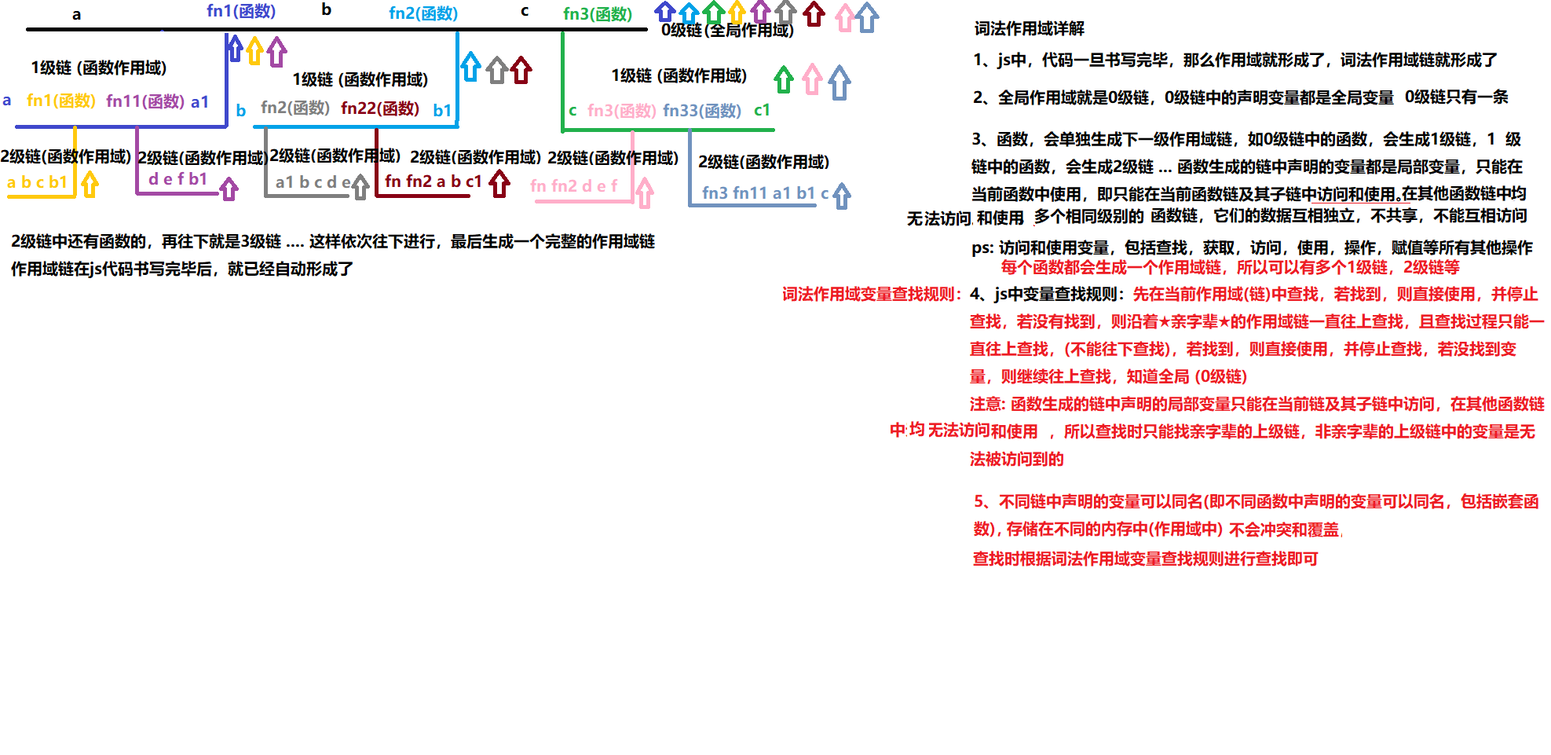
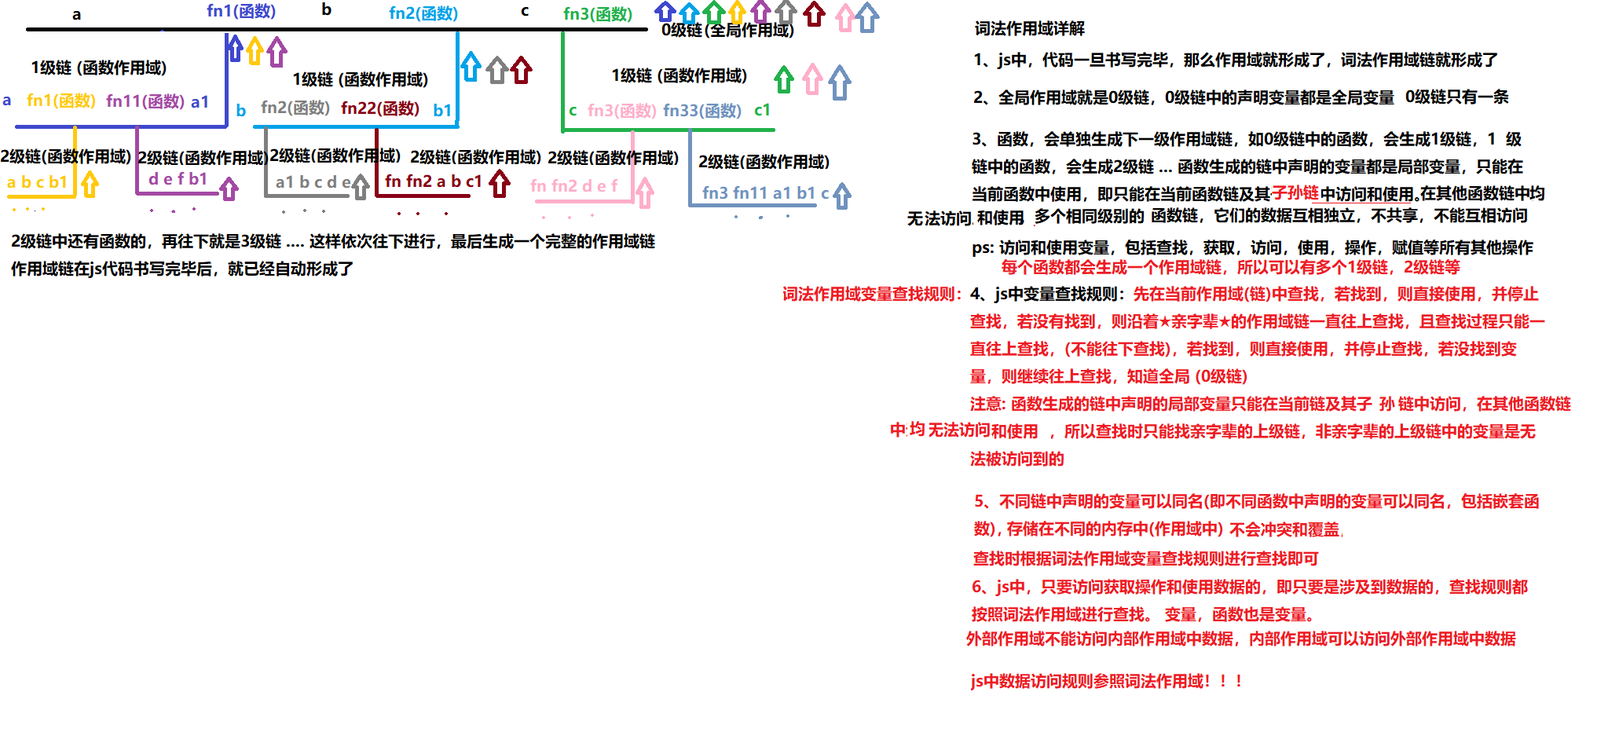
0418-01

diff --git a/01-JavaScript基础/day01/02-代码/day01-code/05-变量.html b/01-JavaScript基础/day01/02-代码/day01-code/05-变量.html
@@ -21,11 +21,12 @@
       //1. 只声明
       // 结构 : var + 变量名   (变量名不能是字符串)  在ES5中 声明变量的方式只有var
       // (记忆) 只声明,,没有赋值的变量 => 变量的值都是 undefined  只声明是符合语法规范的,说明还没有进行完,后续会赋值的。
+      // 赋值, 赋予变量值, 变量中存储的值就为赋的值, 改变变量中存储的值
       // ★★★ 若后续在相同作用域内(在相同作用域内,若是函数作用域,则是每个函数开辟的单独内存空间内(包含嵌套函数关系),即每个函数的作用域互不干扰,相互独立,不会冲突)声明相同变量名的变量，则相同作用域内后声明的变量会覆盖相同作用域中之前声明的同名变量 (在相同作用域内, 只要声明的变量名相同, 后面声明的变量就会覆盖前面的) , 不会报错
       //        即var声明的变量可以被var声明多次, 在相同作用域下, 后声明的变量会覆盖相同作用域中之前声明的同名变量 (前提后声明的变量要赋值, 否则不会覆盖, 值还是之前的), 不同作用域的变量互不影响和干扰.
       // 注意: ★ 使用/访问变量,使用/访问的都是变量的值(变量中存储的值)
-      // ps: 操作, 访问, 获取, 输出 和使用变量, 都是操作, 访问和获取, 输出和使用变量的值; 我们可以通过操作变量来操作变量的值
-      // ps: ★★★ js中所有的使用变量的地方, 都是使用变量的值, 而不是使用变量本身, ★★★
+      // ps: 操作, 访问, 获取, 输出 和使用变量, 都是操作, 访问和获取, 输出和使用变量的值, 即变量中存储的值; 我们可以通过操作变量来操作变量的值
+      // ps: ★★★ js中所有的使用变量的地方, 都是使用变量的值, 即变量中存储的值, 而不是使用变量本身, ★★★
       //     如 var a = 1; var b = 2; var c = 3; var arr = [a, b]  => [1, 2]; arr.push(c); arr 为★★★ [1, 2, 3], 而不是[a, b, c], 因为使用变量是使用变量的值, 而不是变量本身
       //        a = { name: 'zs', age: 18 }; b = 6; c = 100 则arr还是[1, 2, 3], 因为是使用变量的值, 而非变量本身
       //     注意, 引用类型的数据, 值是引用地址
@@ -40,13 +41,16 @@
        console.log(p); //undefined
 
       //2. 先声明,再赋值
-      // = : 赋值 (给等号左边的变量赋值) => 将等号右边的值赋值给等号左边(★★★一个变量只能存储一个值, 可以存储所有类型的数据, 可以多次赋值，后面的赋值会覆盖前面存储的值)
+      // = : 赋值 (给等号左边的变量赋值) => 将等号右边的值(结果)赋值给等号左边(★★★一个变量只能存储一个值, 可以存储所有类型的数据, 可以多次赋值，后面的赋值会覆盖前面存储的值, 即后面的赋值会覆盖变量之前存储的值)
+      // 变量中存储的值是可以改变的, 给变量赋值会改变变量中存储的值, 变量可以被多次赋值 (接受任意类型赋值) , 后面的赋值会覆盖前面存储的值, 即后面的赋值会覆盖变量之前存储的值 (每个变量只能存储一个值)
+      // 变量可以存储任意类型的值, 即变量可以接收任意类型数据的赋值, 变量的数据类型以当前变量中存储的值的数据类型为准
       // 不同变量之间的值可以一样, 也可以不一样
-      // ★ 变量赋值顺序, ★ 一定是 (无论如何) 都是从右往左, 先执行等号右边, 将右边的具体结果算出来后, 再赋值给左边 var p = 1;   p = p + 1 => 先执行右边的p + 1, 然后把结果赋值给左边的p => 执行结果, p 的值为 2
+      // ★ 变量赋值顺序, ★ 一定是 (无论如何) 都是从右往左, 先执行等号右边, 将右边的具体结果值算出来后, 再将右边的值赋值给等号左边 var p = 1;   p = p + 1 => 先执行右边的p + 1, 然后把结果赋值给左边的p => 执行结果, p 的值为 2
       // 赋值时 等号右边可以是变量 把变量存储的值赋予左边 ; 可以是具体的值 字面量 引用地址等其他
       // ★ 注意,赋值时,先执行等号右边,右边可以是复杂的表达式、函数的调用以及任何获取性操作, dom获取性操作等等, 一定是等到等号右边算出来具体值之后,再将等号右边的具体的值赋给等号左边
-      // 可以将任意类型(五简单，3复杂)的变量/值/数据 赋值给var声明的变量 , var声明的变量,不管之前有没有赋值,都可以接收任意类型变量/值 的赋值 (5个简单类型,3个复杂类型),赋值后变量的数据类型也随之改变
-      // var 声明的变量,可以接收任意数据类型(五简单，3复杂)的赋值(后面的赋值会覆盖前面的赋值). 可以存储任意数据类型的数据 赋值后变量的数据类型也随之改变
+      // ★ 注意, 赋值时, 先执行等号右边, 等号右边的数据以此刻执行等号右边时内存中存储的数据为准.  var p = 1;   p = p + 1 => 先执行右边的p + 1, 此刻内存中p为1, 所以p + 1的值为2, 然后把结果赋值给左边的p => 执行结果, p 的值为 2
+      // 可以将任意类型(五简单，3复杂)的变量/值/数据 赋值给var声明的变量 , var声明的变量,不管之前有没有赋值,都可以接收任意类型变量/值 的赋值 (5个简单类型,3个复杂类型),赋值后变量的数据类型也随之改变, 每个变量只能存储一个值, 后面的赋值会覆盖变量之前存储的值
+      // var 声明的变量,可以接收任意数据类型(五简单，3复杂)的赋值(后面的赋值会覆盖前面的赋值). 可以存储任意数据类型的数据 赋值后变量的数据类型也随之改变, 每个变量只能存储一个值, 后面的赋值会覆盖变量之前存储的值
       // js中, 只要是变量：1.就只能存储一个值, 2.可以存储所有类型的数据, 3. 可以多次赋值, 可以接受所有类型的数据赋值, 后面的赋值会覆盖变量之前的值
       // 变量的值可以是任意类型的, 5简单, 3复杂
       // 变量都可以赋值

diff --git a/01-JavaScript基础/day04/02-代码/day04-code/22-作用域.html b/01-JavaScript基础/day04/02-代码/day04-code/22-作用域.html
@@ -13,18 +13,20 @@
 
 // **全局作用域** ：在script标签内或js文件内，**函数外**的区域就是全局作用域，在全局作用内声明的变量叫做**全局变量** 。全局变量可以在任意地方访问。
 
-// **函数作用域** ：在  **函数内的区域**   叫做函数作用域，在函数作用域内声明的变量叫做**局部变量** ，局部变量只能在 当前 函数体内 及当前函数体内 嵌套的子函数内 才能访问到。在其他函数中都无法访问和使用。
+// **函数作用域** ：在  **函数内的区域**   叫做函数作用域，在函数作用域内声明的变量叫做**局部变量** ，局部变量只能在 当前 函数体内 及当前函数体内 嵌套的子孙函数内 才能访问到。在其他函数中都无法访问和使用。
 
 // ★★★★★ 每个函数都有自己独立的函数作用域, 不同函数之间的作用域互相独立, 都是不同的作用域, 数据独立, 互不影响, 互不干扰, 数据不共享, 不能互相访问数据. 也不会互相覆盖数据
 
 
 // 全局变量：在函数外，script标签内(全局作用域)声明的变量就是全局变量，全局变量在任何地方都能访问和使用。
 
-// 局部变量：在函数中(函数作用域)声明的变量，就是局部变量，局部变量只能在 当前函数体内及当前函数嵌套的子函数能够访问和使用, 在其他函数中都无法访问和使用。
+// 局部变量：在函数中(函数作用域)声明的变量，就是局部变量，局部变量只能在 当前函数体内及当前函数嵌套的子孙函数能够访问和使用, 在其他函数中都无法访问和使用。
 
 // 隐式全局变量：没有使用var定义的变量也是全局变量，叫做隐式全局变量。(不要使用)
 
 // 全局变量存储在全局内存中, 局部变量存储在所在函数的内存中, 形参也是局部变量, 也存储在所在函数的内存中
+
+// 外部作用域不能访问内部作用域中数据, 内部作用域可以访问外部作用域数据 (根据词法作用域)
 
 
 // 总结:
@@ -50,7 +52,7 @@
       //★   不同函数之间的形参可以同名,因为是在各自的函数作用域开辟内存空间存储, 是不同的东西, 各自独立, 不会冲突, 互不影响, 不会互相覆盖, 存储在不同的内存里 无法互相访问
       //★   不同函数之间的局部变量可以同名,因为是在各自的函数作用域开辟内存空间存储, 是不同的东西, 各自独立, 不会冲突, 互不影响, 不会互相覆盖, 存储在不同的内存里 无法互相访问
       //★   不同函数之间的局部变量 是不同的东西, 各自独立 不会冲突, 互不影响, 不会互相覆盖, 存储在不同的内存里 访问时根据词法作用域规则访问
-      //     1>只要是不同函数, 不管是同级的或者是其他函数或者是嵌套的函数(父函数和子函数), 形参名就可以相同, 因为是存储在不同的内存里, 是不同的东西, 不同函数之间的形参是独立的, 互不干扰, 互不影响 不会互相覆盖 存储在不同的内存里 访问和使用形参时根据词法作用域规则访问
+      //     1>只要是不同函数, 不管是同级的或者是其他函数或者是嵌套的函数(父函数和子孙函数), 形参名就可以相同, 因为是存储在不同的内存里, 是不同的东西, 不同函数之间的形参是独立的, 互不干扰, 互不影响 不会互相覆盖 存储在不同的内存里 访问和使用形参时根据词法作用域规则访问
       //     如arr.forEach(function(v, i) {
       //        arr1.forEach(function(v, i) {
       //            不同函数之间的形参名可以相同, 不同函数之间的形参是独立的, 存储在不同的内存里, 互不干扰
@@ -60,7 +62,7 @@
       //            })
       //        } )
       //   } )
-      //    2>只要是不同函数, 包括嵌套函数 (子函数和父函数), 或其他同级函数或其他函数, 不同函数之间的函数作用域内的局部变量名可以相同, 因为是存储在不同的内存里的, 不同函数之间的局部变量是独立的, 互不干扰互不影响, 不会互相覆盖 访问和使用变量时根据词法作用域规则访问
+      //    2>只要是不同函数, 包括嵌套函数 (子孙函数和父函数), 或其他同级函数或其他函数, 不同函数之间的函数作用域内的局部变量名可以相同, 因为是存储在不同的内存里的, 不同函数之间的局部变量是独立的, 互不干扰互不影响, 不会互相覆盖 访问和使用变量时根据词法作用域规则访问
       //     如arr.forEach(function(v, i) {
       //        var a = 1
       //        arr1.forEach(function(v, i) {
@@ -78,7 +80,7 @@
 
       //4.  函数内部也可以声明函数,不过函数内部声明的函数是局部的,只能在函数内部使用,函数外部无法使用。
       //5.  函数中可以嵌套函数,外层函数的局部变量可以在内层函数中使用,内层函数的局部变量不可以在外层函数中使用。即里面可以访问外面,外面不能访问里面。内外层函数中变量,形参也可以同名(在各自的函数作用域内存储,不会冲突),内层函数访问变量,先访问自己的,没有再一层层往外找 (自己内部=>外层函数?.. => 全局作用域)
-      //6.  每个函数都是开辟自己的空间存储,与其他函数相互独立,不会冲突。函数中的变量,形参,只能在 当前 函数 及当前函数嵌套的子函数中使用,在 其他函数中无法访问和使用。
+      //6.  每个函数都是开辟自己的空间存储,与其他函数相互独立,不会冲突。函数中的变量,形参,只能在 当前 函数 及当前函数嵌套的子孙函数中使用,在 其他函数中无法访问和使用。
       //7.  函数内只能访问 ★ 自己函数内部 的局部变量 和 全局变量,无法访问其他 同级 函数中的变量。
 
             // ps: 不同的函数, 是不同的函数作用域, 互相独立,

diff --git a/01-JavaScript基础/day05/02-代码/day05-code/06-匿名函数.html b/01-JavaScript基础/day05/02-代码/day05-code/06-匿名函数.html
@@ -76,19 +76,21 @@
     //    2. 所有函数, ★ 只要是函数 (不管函数在哪里声明的), 参数都是可有可无的, 且调用函数的时候都可以传参, 也可以不传参, 若传参, 参数都会被形参按照顺序一一对应接收
     // ★★★ 调用函数的时候, 先将实参的值赋值给形参, 然后才开始执行函数体. 即先确认每个形参的值之后, 才开始执行函数体中的代码
     //    3. 函数的声明, 也叫做创建函数, 可以通过以下三种方式创建函数: 1. function 函数名(参数..) { 函数体 }, 2. var 变量名 = function(参数..) { 函数体 }, 3.使用匿名函数创建函数 function(参数..) { 函数体 }
-    //       以上三种方式都是函数的声明, 都是创建函数, 返回函数的引用地址
+    //       以上三种方式都是函数的声明, 都是创建函数, 返回函数的引用地址, 且都可以被调用
     //       以上三种方式都是函数的声明, 不会执行函数体, 需要调用, 才会执行函数体中的代码
-    //       函数体中可以写任意的js代码, 会在调用的函数的时候执行函数体中的代码, 执行顺序也是从上往下依次执行
-    //       ★ ps: 后续所说的函数, 都是指函数的声明(创建), 即函数的引用地址
-    //       1) 创建函数(声明函数), 都会开辟一块新的空间存储, 都是返回函数的引用地址. 2) 只要是创建函数(声明函数), 都不会执行函数体, 需要调用函数, 才会执行函数体中的代码. 每次调用, 执行一次函数体 3) 只要是函数, 不管在哪, 都不会自己执行函数体, 都需要调用函数, 才会执行函数体
+    //       函数体中可以写任意的js代码, 会在调用的函数的时候执行函数体中的代码, ★ 执行顺序也是从上往下同步执行的
+    //       ★ ps: 后续所说的函数, 都是指函数的声明(创建), 即函数的引用地址, 
+    //       ★ ps: 后续所使用到函数的API, 都是指函数的声明(创建), 即函数的引用地址, 我们只需要在使用处声明(创建)函数即可, 创建函数返回的是函数的引用地址
+    //       1) 创建函数(声明函数), 都会开辟一块新的空间存储, 都是返回函数的引用地址. 即声明(创建)函数得到的结果是函数的引用地址, 且声明(创建)的函数都可以被调用 2) 只要是创建函数(声明函数), 都不会执行函数体, 需要调用函数, 才会执行函数体中的代码. 每次调用, 执行一次函数体 3) 只要是函数, 不管在哪, 都不会自己执行函数体, 都需要调用函数, 才会执行函数体
     //       4) ★★★ 只要是创建函数(声明函数), 浏览器都不会去解析和执行函数体中的代码, 而是直接跳过, 等到调用函数的时候, 才会去解析和执行函数体中的代码, 函数体中变量具体的值, 以调用执行函数体的时候对应代码执行的时刻内存中存储的变量的值为准.
     //       5) 调用函数, 执行函数体, 函数体中访问/查找/使用/操作/赋值变量, 先在自身函数作用域内查找, 若找到就使用, 并停止查找, 若没找到, 则从函数的 ★★★声明所在处 开始, 沿着作用域链往上级链查找, 找到使用, 且停止查找, 后面同词法作用域2.3.4点！！
-    //    4. 在JS任何地方 变量的值只要指向函数的(根据词法作用域查找规则), 或者说变量的值只要是函数的引用地址的, 就可以通过变量名() 调用函数, 执行函数体 与函数在哪里声明的, 数据在哪里存储的无关, 与函数在哪个内存地址里存储无关.
+    //       6) 调用函数, 执行函数体中代码, 函数体中代码执行顺序都是从上往下同步执行的
+    //    4. 在JS任何地方 变量的值只要指向函数的(根据词法作用域查找规则), 或者说变量的值只要是函数的引用地址的, 就可以通过变量名() 调用对应的函数, 执行函数体 与函数在哪里声明的, 数据在哪里存储的无关, 与函数在哪个内存地址里存储无关.
     // ps: 调用函数, 不管函数在哪里声明, 不管函数在哪调用的, 函数调用结束后(执行完函数体后),  都会将return 后面的值, 即函数的返回值, 返回到函数的调用处, 返回什么值, 函数的调用处就拿到什么值
 
     //    5. 在JS任何地方, 只要是函数, 或函数的引用地址的, 都可以加()调用对应地址里的函数, 执行其函数体中的代码 与函数在哪里声明的, 数据在哪里存储的无关, 与函数在哪个内存地址里存储无关.
     //    函数的调用过程
-    //       ★★★ 在JS任何地方 只要是函数的引用地址, 都可以加()调用函数, ★ 与函数在哪里声明的, 数据在哪里存储的无关, 与函数在哪个内存地址里存储无关.
+    //       ★★★ 在JS任何地方 只要是函数的引用地址, 都可以加()调用对应的函数, ★ 与函数在哪里声明的, 数据在哪里存储的无关, 与函数在哪个内存地址里存储无关.
     //       ★★★ 调用函数, (不管函数在引入的哪个文件中, 哪个模块中, 哪个内存中声明的) 都会先回到函数声明所在处  执行函数体中的代码, 函数体中变量查找顺序也是从函数声明处函数体中开始, 根据词法作用域链规则依次往上查找.
     //       ★★★ 调用函数, 要等到执行函数体代码结束后, 才会重新回到函数的调用处, 并且将函数返回值返回到函数调用处, 继续往下执行函数调用处之后的js代码 (同步调用)
     // ps: 调用函数, 不管函数在哪里声明, 不管函数在哪调用的, 函数调用结束后(执行完函数体后), 都会将return 后面的值, 即函数的返回值, 返回到函数的调用处, 返回什么值, 函数的调用处就拿到什么值

diff --git a/01-JavaScript基础/day01/02-代码/day01-code/01.js.html b/01-JavaScript基础/day01/02-代码/day01-code/01.js.html
@@ -2,7 +2,7 @@
  * @Author: Ling Hui Shi
  * @Date: 2020-02-16 19:54:46
  * @LastEditors: Ling Hui Shi
- * @LastEditTime: 2020-04-17 00:45:55
+ * @LastEditTime: 2020-04-18 01:13:04
  * @Description: 
  -->
 1. 为什么要学习js ?
@@ -13,7 +13,7 @@ js : 表单验证
 是一种运行在 客户端的 脚本语言
 脚本语言 : 非编译语言, 脚本语言是 执行一行 解析一行 php/python : 由于是非编译语言,就算代码写错了,由于是执行一行,解析一行,(且是同步执行, 要等到上面一行代码执行完毕后, 才执行下面一行的代码) 就算代码写错了,只要写错的代码不被执行到,也是不会报错的;
 // js是脚本语言, 非编译语言, 执行一行, 解析一行, 代码执行报错了, 程序停止运行, 报错之后的代码不再执行了, 但报错之前的代码还是会被执行的. 报错之前的代码已经执行完毕了 (解析一行, 执行一行)
-js中, 后面只要没有说是异步的, 则都是 ★ 同步执行的, 即会阻塞栈中代码执行, 即要等到上面的代码执行完毕后且★代码执行的影响保存更新到数据库后, 才会继续执行下面的代码
+js中, 后面只要没有说是异步的, 则全部都是 ★ 同步执行的, 即会阻塞栈中代码执行, 即要等到上面的代码执行完毕后且★代码执行的影响保存更新到数据库后, 才会继续执行下面的代码
 3. js的组成
 - ECMAScript :`标准` 规范、规定了js应该使用的 语法和数据类型 , 在浏览器中能够被识别和解析 (我们JS基础学习的是ECMAScript,并且是ES5 很重要)
 - Dom : document object model 有一套`操作网页元素`的api (方法 接口) (在WebAPIs编程中学习)
@@ -38,10 +38,11 @@ js中碰到复杂表达式的 (复杂表达式也是表达式), 多个.操作的
 2. js对dom树, css规则树以及渲染树的操作,比如改变dom树htm结构,或者改变dom树上dom元素(标签节点)的样式或html结构等所其他操作都会同步保存在内存中, 除非页面重新加载(刷新页面或跳转页面)
 3. js中声明的变量，函数,以及其他所有数据,都是一直存储在内存中的， 持续作用于页面, 对数据的操作,比如赋值等所有其他操作，都会一直保存在内存中, 持续作用于页面, 除页面重新加载(刷新页面或跳转页面)
 4、js中所有声明的数据(变量, 5基本, 3复杂等所有数据), 都是一次声明, 多次使用的, 可以被多次使用/操作/访问/获取/赋值等..
-5、js中,所有访问/使用/操作/ ★ 获取性等所有操作,获取的都是访问/使用/操作/获取当前执行获取性操作这段代码这一时刻，内存中此刻保存的对应的要获取的那个数据的值, ★ 并且要等到获取到值之后, 才继续执行后面的操作(比如赋值或其他所有操作), 代码..
-6、js中,所有的代码执行都是 立即 同步 生效的, 会先立刻把代码执行的影响立刻 同步 保存在内存里且生效后, 才会继续再往下执行下一行代码 ... , 后面执行的代码都是基于之前执行的代码
+5、js中, 不管是在全局或者函数中或者其他任意js运行环境中, js代码中, 所有的访问/使用/操作/ ★ 获取性等所有操作,获取的都是访问/使用/操作/获取当前执行获取性操作这段代码这一时刻，内存中此刻保存的对应的要获取的那个数据的值, ★ 并且要等到获取到值之后, 才继续执行后面的操作(比如赋值或其他所有操作), 代码..
+6、js中, 不管是在全局或者函数中或者其他任意js运行环境中, 所有的js代码的执行都是 立即 同步 生效的, 会先立刻把代码执行的影响立刻 同步 保存在内存里且生效后, 才会继续再往下执行下一行代码 ... , 后面执行的代码都是基于之前执行的代码(操作, 数据及影响更新保存到内存后)上执行的
    比如执行赋值操作的代码, 会先将赋值同步更新到内存中, 然后再往下执行之后的代码, 比如dom操作, 会先将操作的影响、数据等同步更新到dom树内存中, 并渲染更新完页面后, 然后再往下执行之后的代码; dom中的获取性操作, 会先将值获取到 (获取此刻内存中dom树上对应的数据的值), 然后再往下执行之后的操作(比如赋值操作)、代码; 比如获取性操作, 要先等到值获取到之后, 才继续往下执行之后的代码 ... 等其他
-7. js中, 只要没有说是异步的, 则都是 ★ 同步执行的, 即会阻塞栈, 即要等到上面的代码执行完毕后且★代码执行的影响保存更新到内存后, 若涉及到页面渲染的(重绘或回流), 还要等页面重新渲染后, 才会继续执行后面的代码
+   ★ 比如js中所有数据的创建, 都是同步执行的, 会先将创建的数据创建完毕并且保存到内存中生效之后, 才会继续往下执行之后的代码.
+   7. js中, 只要没有说是异步的, 则都是 ★ 同步执行的, 即会阻塞栈, 即要等到上面的代码执行完毕后且★代码执行的影响保存更新到内存后, 若涉及到页面渲染的(重绘或回流), 还要等页面重新渲染后, 才会继续执行后面的代码
 8. js中, 变量数据在经过操作后(比如循环, 获取等其他所有操作), 数据还是会保留在内存里, JS对于使用到的数据, 都不会去删除的.
 9. 变量的值会一直保存在内存里. 只有赋值操作会改变变量的值 (在内存中存储的值)
 

diff --git a/01-JavaScript基础/day05/02-代码/day05-code/25.值类型和引用类型.html b/01-JavaScript基础/day05/02-代码/day05-code/25.值类型和引用类型.html
@@ -35,11 +35,14 @@
 
 // 复杂数据类型 (函数,数组,对象),,因为变量存的时候,存的是引用地址
 //  =====>也叫引用类型
-// 所有复杂数据类型(函数,数组,对象)在创建时(构造函数创建或字面量创建或任何方式创建),都会在 内存 中开辟一块 ★新的 空间,将数据存储在这块空间里 (可以存储任意类型数据),然后 ★ 将该空间的引用地址,返回 (一般赋值给变量存储 或 直接使用) 。所以变量里存的是引用地址,指向地址对应的那块数据,存储复杂数据类型的变量也叫作引用变量,引用变量的值存的都是引用地址,引用变量的值,都是引用地址
+// 所有复杂数据类型(函数,数组,对象)在创建时(构造函数创建或字面量创建或任何方式创建),都会在 内存 中开辟一块 ★新的 空间,将数据(创建赋值)存储在这块空间里 (可以存储任意类型数据),然后 ★ 将该空间的引用地址,返回 (创建复杂数据类型得到的结果是数据存储空间的引用地址) (一般赋值给变量存储 或 直接使用) 。所以变量里存的是引用地址,指向地址对应的那块数据,存储复杂数据类型的变量也叫作引用变量,引用变量的值存的都是引用地址,引用变量的值,都是引用地址
 // 存储复杂数据类型的变量, 存储的都是引用地址, 也称作引用变量, 就和普通变量一样, 只不过换个叫法而已, 也可以被赋值多次, 接受多种类型数据的赋值等, 其实就是普通变量, 和其他变量一样
 // ★★★ 复杂数据类型的数据在创建时, 其引用地址就确定且固定了, 后续若使用/改变/获取 引用地址里的数据, 并不会改变其引用地址
 // ★ 由以上可知, 如果变量 ★ 存储的是引用地址 ★ 的, 则变量对引用地址中的数据获取/操作/修改, 并不会改变变量存储的引用地址的值, 即不会改变变量的值, 除非给变量重新赋值, 变量的值才会改变
-// 虽然引用数据类型,变量存的值是引用地址,但是可以 操作/改变/赋值/获取 到地址所指向内存里的数据.
+// ★ 虽然引用数据类型,变量存的值是引用地址, ★ 但是可以 操作/改变/赋值/获取 引用地址所指向内存里的数据.
+//  ps: ★ 只要是指向引用地址的变量, 就可以操作, 获取和使用 访问 修改 引用地址里的数据; 与引用地址的数据在哪声明创建, 数据在哪里存储无关, 与数据在哪个内存地址里存储无关.
+//      ★ 只要是引用地址, 就可以操作, 获取和使用 访问 修改 引用地址里的数据, 与引用地址的数据在哪声明创建, 数据在哪里存储无关. 与数据在哪个内存地址里存储无关.
+//      ★ 只要变量存储的是引用地址 就可以操作 访问和使用和修改和操作引用地址里的数据 与地址里的数据在哪里存储 在哪个作用域存储 无关, 与数据在哪个内存地址里存储无关.
 // 引用数据类型变量 对应的内存里, 存的值是数据的引用地址. 即引用数据类型变量 (引用变量) 值是引用地址
 // 引用数据类型数据都是存储在一块地址里,而复杂数据类型指向引用地址,修改添加获取赋值属性等操作都是操作指向的那个引用地址里的数据
 // 引用变量存的是 (值是) 复杂数据类型的引用地址,可以操作获取修改赋值以及使用所指向内存里的那块地址里的数据, 所有的操作都是修改指向那块地址里的数据, 引用变量本身的值还是那块数据的引用地址

diff --git a/01-JavaScript基础/day04/02-代码/day04-code/07-参数总结.html b/01-JavaScript基础/day04/02-代码/day04-code/07-参数总结.html
@@ -21,7 +21,7 @@
       // 7. 可以接收任意类型 (5基本3复杂) 实参传什么值过来, 形参就一一对应接收什么值
       // 8. 形参前面不要var声明,直接写形参名即可
       // 9. 不同函数之间的形参可以同名,因为是在各自的函数作用域开辟内存空间存储,不会冲突 不会互相影响, 不会互相覆盖, 存储在不同的空间里, 各自独立, 访问时根据词法作用域规则访问
-      //     1.>  包括嵌套函数 (子函数和父函数), 或其他同级函数或其他函数, 只要是不同函数, 其形参名就可以相同, 不同函数之间的形参是独立的, 存储在不同的内存里, 互不干扰互不影响, 访问和使用形参时根据词法作用域
+      //     1.>  包括嵌套函数 (子孙函数和父函数), 或其他同级函数或其他函数, 只要是不同函数, 其形参名就可以相同, 不同函数之间的形参是独立的, 存储在不同的内存里, 互不干扰互不影响, 访问和使用形参时根据词法作用域
       //     如arr.forEach(function(v, i) {
       //        arr1.forEach(function(v, i) {
       //            不同函数之间的形参名可以相同, 不同函数之间的形参是独立的, 存储在不同的内存里, 各自独立, 互不干扰, 不会冲突, 不会互相影响, 不会互相覆盖, 访问时根据词法作用域规则访问
@@ -31,7 +31,7 @@
       //            })
       //        } )
       //   } )
-      // 10. 形参相当于在当前函数作用域内声明了一个局部变量 只能在当前函数及当前函数嵌套的子函数中访问和使用, 在其他函数中无法访问和使用. 形参就是所在函数的函数体中的局部变量
+      // 10. 形参相当于在当前函数作用域内声明了一个局部变量 只能在当前函数及当前函数嵌套的子孙函数中访问和使用, 在其他函数中无法访问和使用. 形参就是所在函数的函数体中的局部变量
       // 11. 对于实参传过来的值,形参一一对应接收,对于没有传过来的值,则形参为undefined,相当于只声明了形参,但未赋值 (不会报错)
       // ps: 实参的个数和形参的个数可以不一致, 不会报错 (可以更多也可以更少也可以一样), 但是函数调用时形参是按顺序一一对应接收实参传递过来的值的, 即实参是按顺序一一对应赋值给形参的. 对于没传递实参的形参, 则形参的值为undefined
 

diff --git a/01-JavaScript基础/day04/02-代码/day04-code/04-函数的声明与调用.html b/01-JavaScript基础/day04/02-代码/day04-code/04-函数的声明与调用.html
@@ -2,7 +2,7 @@
  * @Author: Ling Hui Shi
  * @Date: 2020-02-16 19:54:47
  * @LastEditors: Ling Hui Shi
- * @LastEditTime: 2020-04-17 00:20:00
+ * @LastEditTime: 2020-04-18 00:21:25
  * @Description: 
  -->
 <!DOCTYPE html>
@@ -24,7 +24,7 @@
     // ps: 后续所说的函数, 都是指函数的声明, 即函数的引用地址
     // 结构 :
     // 函数名类似于变量名 , 不能是字符串 函数名命名规则要符合变量名的命名规则
-    // 函数也是个变量,变量名为函数名 值为声明的函数(的引用地址)
+    // ★ 每个函数都是一个变量,变量名为函数名 值为声明的函数(的引用地址)
     // 方式1声明函数, 相当于在当前作用域创建了一个变量, 变量名为函数名, 变量的值为函数的引用地址
     // function 函数名() {
     //   // 函数体 (代码块)
@@ -49,6 +49,7 @@
     // ★★★ 调用函数执行函数体的时候, 函数体中访问/查找/使用/操作/赋值变量, 先在自身函数体作用域内查找, 若找到直接使用, 且停止查找, 若没找到, 则从函数的 ★★★声明所在处 开始, 沿着作用域链往上级链查找, 找到就使用, 且停止查找, 后面同词法作用域2.3.4点！！
     // 需要调用它,才能执行函数体中的代码 (即调用函数,才会执行函数体中的代码), 每次调用, 执行一次函数体, 且调用函数都是同步执行的, 即会阻塞栈, 要等到函数调用结束后, 才会回到函数调用处, 继续往下执行函数调用处之后的代码
     // 函数体中可以写任意的js代码 会在调用的函数的时候执行函数体中的代码, 函数体中代码的执行顺序也是从上往下依次 ★同步 执行, 等到函数体中代码执行完毕后, 才会回到函数的调用处, 继续往下执行函数调用处之后的代码 (函数调用都是同步调用)
+    // 调用函数, 执行函数体中代码, 函数体中代码执行顺序都是从上往下同步执行的
     // 函数可以多次调用 (一次声明,多次调用),每次调用都会执行函数体,拿到的数据都当前内存里的数据值, 是最新的
     // 函数一次声明, 可以多次使用
     // ★★★ 函数调用后不会消失 还会存在内存里 函数里声明的局部变量和函数等数据也不会消失 也会继续存在内存里 保持数据  一次声明 多次调用 但是每次调用函数体的代码都会执行一次

diff --git a/02-WebAPIs编程/day01/04-上课代码/02-获取页面元素.html b/02-WebAPIs编程/day01/04-上课代码/02-获取页面元素.html
@@ -2,7 +2,7 @@
  * @Author: Ling Hui Shi
  * @Date: 2020-02-16 19:54:47
  * @LastEditors: Ling Hui Shi
- * @LastEditTime: 2020-04-15 00:10:35
+ * @LastEditTime: 2020-04-18 00:25:38
  * @Description: 
  -->
 <!DOCTYPE html>
@@ -25,7 +25,7 @@
 //    元素: 在html中<div>叫标签, 在DOM中,标签称之为元素 (此处的元素和数组中的元素不是一个东西,是两个概念) => 在JS的DOM中 元素 就是 html标签
 //    元素 其实就是JS对象 也就是 标签 抽象出来的 对象 JS通过操作 元素 (手动操作) 实现操作页面上 标签 的目的
 //    可以把元素 就 理解成 页面上的 标签  元素是一个对象 Object 类型 , 元素存储的值是引用地址.
-//    ps: 元素也可以称为dom元素, 标签节点, dom对象
+//    ps: 元素也可以称为dom元素, 标签节点, dom对象, 是同一个东西
 //    ps: dom 元素 是一个对象, 如果dom元素在dom树上, 则浏览器会为我们维护dom元素, 会随着操作进行更新和变化的
 
 //    html中的 标签 在DOM中称为 元素
@@ -72,7 +72,7 @@
 //    注意: 伪数组不是 (标签) 元素,伪数组里的每个元素(每个下标对应的值),才是 (标签) 元素, dom元素;★ 在一些操作中要求元素的(比如操作元素的属性等),不能使用伪数组,而是要将伪数组中的元素一个个拿出来 才能使用
 //          可以使用数组名[下标] 取到伪数组中的对应下标的元素, 下标和数组一样, >=0的整数
 //          可以使用数组名.length 获得伪数组长度, 就是为数组中dom元素的个数
-//          伪数组也可以遍历,和数组遍历一致(伪数组可以使用for循环遍历)  下标 0 ~ arr.length - 1
+//          伪数组也可以遍历,和数组遍历一致( ★ 伪数组可以使用for循环遍历)  下标 0 ~ arr.length - 1
 //    ★★★ 在后续一些操作中要求元素的(比如操作元素的属性等),不能使用伪数组,而是要将伪数组中的元素一个个拿出来 才能使用
 //    伪数组也是一个对象,值为引用地址
 //    批量获取元素得到元素伪数组的, 伪数组中元素的存储顺序按照html结构中元素的从上到下顺序排列顺序, 因为获取是按照页面从上到下依次获取的

diff --git a/02-WebAPIs编程/day01/04-上课代码/03-事件.html b/02-WebAPIs编程/day01/04-上课代码/03-事件.html
@@ -1,3 +1,10 @@
+<!--
+ * @Author: Ling Hui Shi
+ * @Date: 2020-02-16 19:54:47
+ * @LastEditors: Ling Hui Shi
+ * @LastEditTime: 2020-04-17 08:33:36
+ * @Description: 
+ -->
 <!DOCTYPE html>
 <html lang="zh-CN">
 <head>
@@ -38,7 +45,7 @@
 
 //    注意: 事件处理函数,相当于函数的声明,JS遇到时不会解析和执行里面的函数体中的代码,而是直接跳过,等到事件被触发的时候,才会调用函数,才会去具体解析和执行函数体,函数体中各个变量的值以解析函数体的时候为准,即以事件触发时/函数调用时/执行函数体时 为准
 //    注意: 伪数组不能注册事件,元素才可以注册事件,需要把伪数组中的元素 一个个拿出来 才可以注册事件
-//    注意: 事件处理函数中的this: this是一个元素, dom元素,解析this: 当前执行的事件处理函数是哪个元素注册的,this就是这个元素;若多个元素注册同一个事件处理函数, ★ 可以使用this将他们(各个元素)区分开来
+//    注意: 事件处理函数中的this: this是一个元素, dom元素,解析this: 当前执行的事件处理函数是哪个元素注册的,this就是这个元素;若多个元素注册同一个事件处理函数, ★ 可以使用this将他们(各个元素)一一区分开来
 //    注意: 所以如果多个元素绑定同一个事件处理函数,在调用执行事件处理函数的时候, 解析和执行的时候, this会被解析成注册 (当前执行的事件处理函数)的那个dom元素,即每个元素执行事件函数时的this都是不同的,这样可以将每个元素给区分开来.
 //    注意: 1个元素可以同时注册多种类型的事件 : 事件名相同,就是同类型事件; 事件名不同,就是不同类型事件
 //    注意: 一个事件可以被触发多次, 每次触发都会调用执行事件处理函数,执行事件处理函数的函数体,拿到的数据都是最新的

diff --git a/13-Node/day06/04-code/09-箭头函数.js b/13-Node/day06/04-code/09-箭头函数.js
@@ -9,8 +9,9 @@ let func = function () {
 //     // 函数体
 // }
 
-// 更确切的说是, 原来的匿名函数声明方式, 都可以使用箭头函数来声明, 箭头函数是一种声明(创建)函数的方式, 类似于匿名函数的声明函数方式, 返回函数的引用地址
-// 原来使用匿名函数的地方, 都可以使用箭头函数来替代
+// 更确切的说是, ★ 原来的匿名函数声明方式, ★ 都可以使用箭头函数来声明, 箭头函数也是一种声明(创建)函数的方式, 返回函数的引用地址, 也可以被调用, 类似于匿名函数的声明函数方式, 返回函数的引用地址
+// 箭头函数就是函数, 和函数没区别, 就是函数, 使用方式和原来一样. 可以被调用, 一次声明, 多次调用.
+// 原来使用匿名函数的地方, 都可以使用箭头函数来替代, 箭头函数可以看作是匿名函数, 使用方式和匿名函数一模一样, 之前函数的规律都适用, 箭头函数就是函数!!!
 // function (形参列表) { 函数体 }  改成使用箭头函数 (形参列表) => { 函数体 }
 // (形参列表) => { 函数体 } 相当于 ★ 声明(创建)了一个匿名函数, 开辟一块新的空间存储, 返回函数的引用地址, 且声明函数是不会执行函数体的, 需要调用才会执行函数体
 // 其他同ES5函数一致, 比如参数可有可无, 若传参参数按顺序一一对应接收, 形参的命名规范要符合函数的命名规范及形参总结、返回值|变量查找、函数作用域及作用域等等. 因为本质上就是函数

diff --git a/01-JavaScript基础/day05/02-代码/day05-code/14-设置对象的属性.html b/01-JavaScript基础/day05/02-代码/day05-code/14-设置对象的属性.html
@@ -1,3 +1,10 @@
+<!--
+ * @Author: Ling Hui Shi
+ * @Date: 2020-02-16 19:54:47
+ * @LastEditors: Ling Hui Shi
+ * @LastEditTime: 2020-04-18 01:17:34
+ * @Description: 
+ -->
 
 <!DOCTYPE html>
 <html lang="en">
@@ -19,8 +26,8 @@
 
       //1. 赋值(给对象中的属性赋值)  对象名(或者叫对象变量名).属性名 (属性名不带引号) = 值 (值可以是任意类型) 接收任意类型的赋值 如果值是函数,则使用匿名函数, 参数可有可无, 也只是函数的声明, 不会自己函数体, 要调用, 才会执行函数体
       //  一般来说 只有赋值操作会改变对象中的属性和数学的值,其他运算操作比如获取属性值后进行运算等,不会改变对象中属性和属性值
-      //1.1 属性存在的情况下 =>  修改/覆盖 属性值   (只会修改对应的属性, 不会影响对象中其他属性)
-      //1.2 属性不存在的情况下 => 添加属性和属性值  (保持原有的属性, 然后添加属性, 不会影响对象中其他属性)
+      //1.1 属性存在的情况下 =>  修改/覆盖 对象中对应属性的属性值   (保持对象中原有的属性, 只会修改对象中对应属性的属性值, 不会影响对象中其他属性)
+      //1.2 属性不存在的情况下 => 给对象中添加属性和属性值  (保持对象中原有的属性, 然后添加属性, 不会影响对象中其他属性)
       obj.name = '小马哥';
       obj.age = 18;
       //若值为函数 => 对象名.属性名 = 匿名函数

diff --git a/01-JavaScript基础/day03/02-代码/day03-code/13-数组的赋值.html b/01-JavaScript基础/day03/02-代码/day03-code/13-数组的赋值.html
@@ -1,3 +1,10 @@
+<!--
+ * @Author: Ling Hui Shi
+ * @Date: 2020-02-16 19:54:47
+ * @LastEditors: Ling Hui Shi
+ * @LastEditTime: 2020-04-18 01:25:39
+ * @Description: 
+ -->
 
 <!DOCTYPE html>
 <html lang="en">
@@ -16,7 +23,7 @@
          // 赋值
         // 结构 : 数组名 [ 下标 ] (下标为数字) = 值 (值可以是任意类型,接收任意类型的赋值)
         // 注意:只有赋值操作会改变数组中元素的值,其他运算操作一般不会改变数组中元素的值
-        //1. 下标存在的情况下 => 修改 /覆盖
+        //1. 下标存在的情况下 => 修改 /覆盖 (保持数组中原有的元素值, 只会修改数组中对应下标的元素值, 不会影响数组中其他元素)
         // 下标范围: 0~arr.length-1  /  1
         // arr[0] = '飞哥';
         // arr[1] = '马哥';
@@ -24,7 +31,7 @@
 
         // console.log(arr);
 
-        //2. 下标不存的情况下  =>增加 (不会影响数组中其他元素) (会自动撑大数组长度)
+        //2. 下标不存的情况下  =>增加 (不会影响数组中其他元素, 保持数组中原来的元素) (会自动撑大数组长度)
         //arr[6] = '哈哈嘻嘻'; //(以后不要这么写)
         //console.log(arr);  //["zs", "ls", empty × 4, "哈哈嘻嘻"] 长度为7
         //console.log(arr[5]); //undefined
